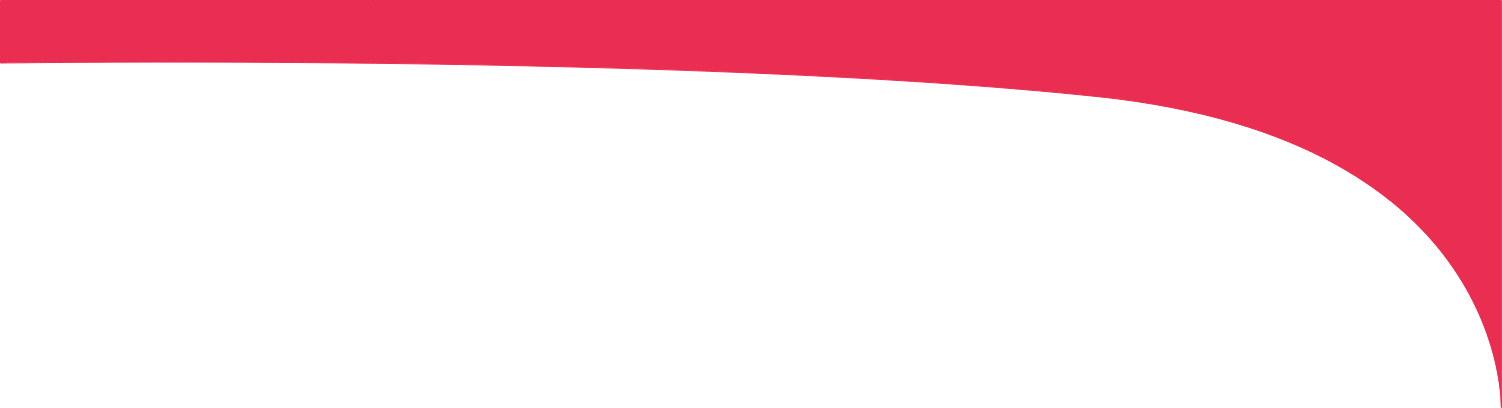
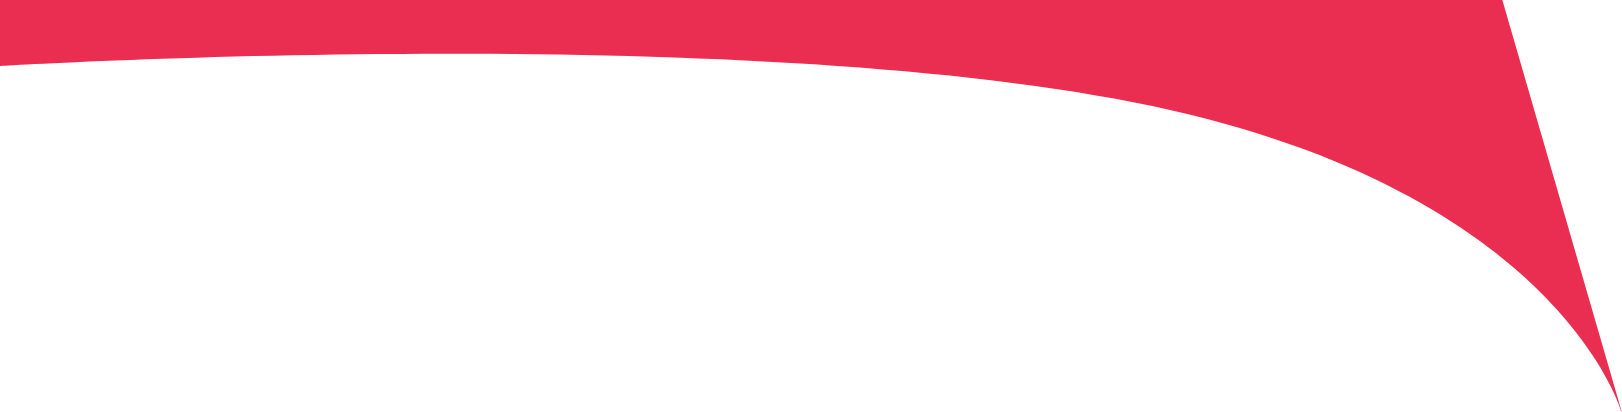
removed svg background from gallery

Changed region(s): [[0.6431, 0.0, 1.0, 0.9706], [0.0, 0.1176, 0.6431, 0.2059]]

diff --git a/public/css/style.css b/public/css/style.css
@@ -265,7 +265,7 @@ h2,h3,h4 {
 
 
 
-.gallery:before{
+/* .gallery:before{
     display: block;
     content: ' ';
     position: absolute;
@@ -274,13 +274,13 @@ h2,h3,h4 {
     background-size: cover;
    min-height: 383px;
    width: 100%;
-}
+} */
 
 .gallery-options {
     width: 40%;
     position: relative;
     margin:auto;
-    padding-top:9rem;
+    padding-top:3rem;
     display: flex;
     justify-content: space-around;
 }
